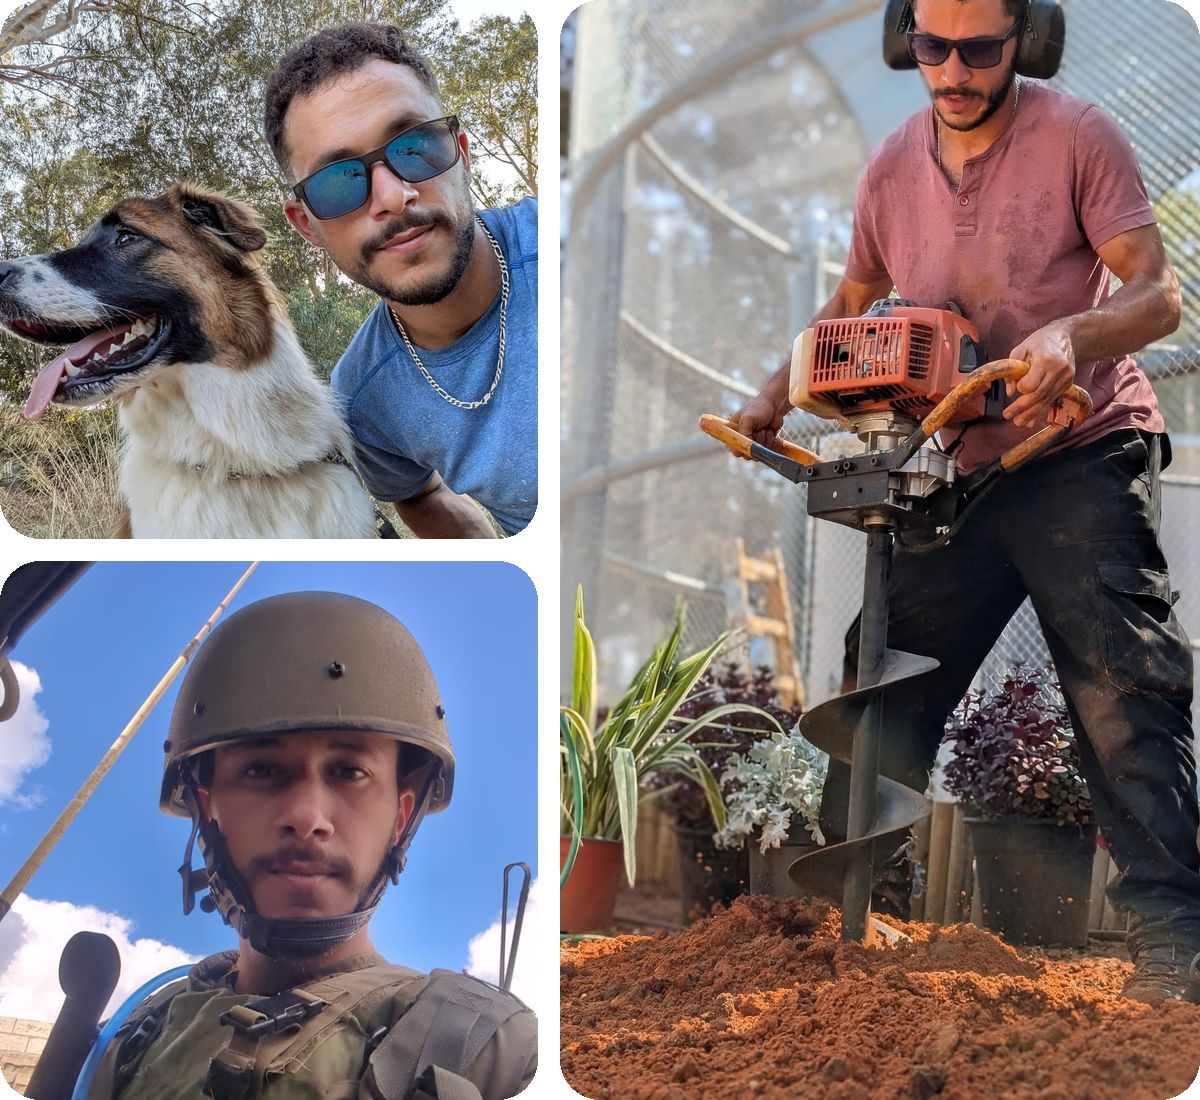
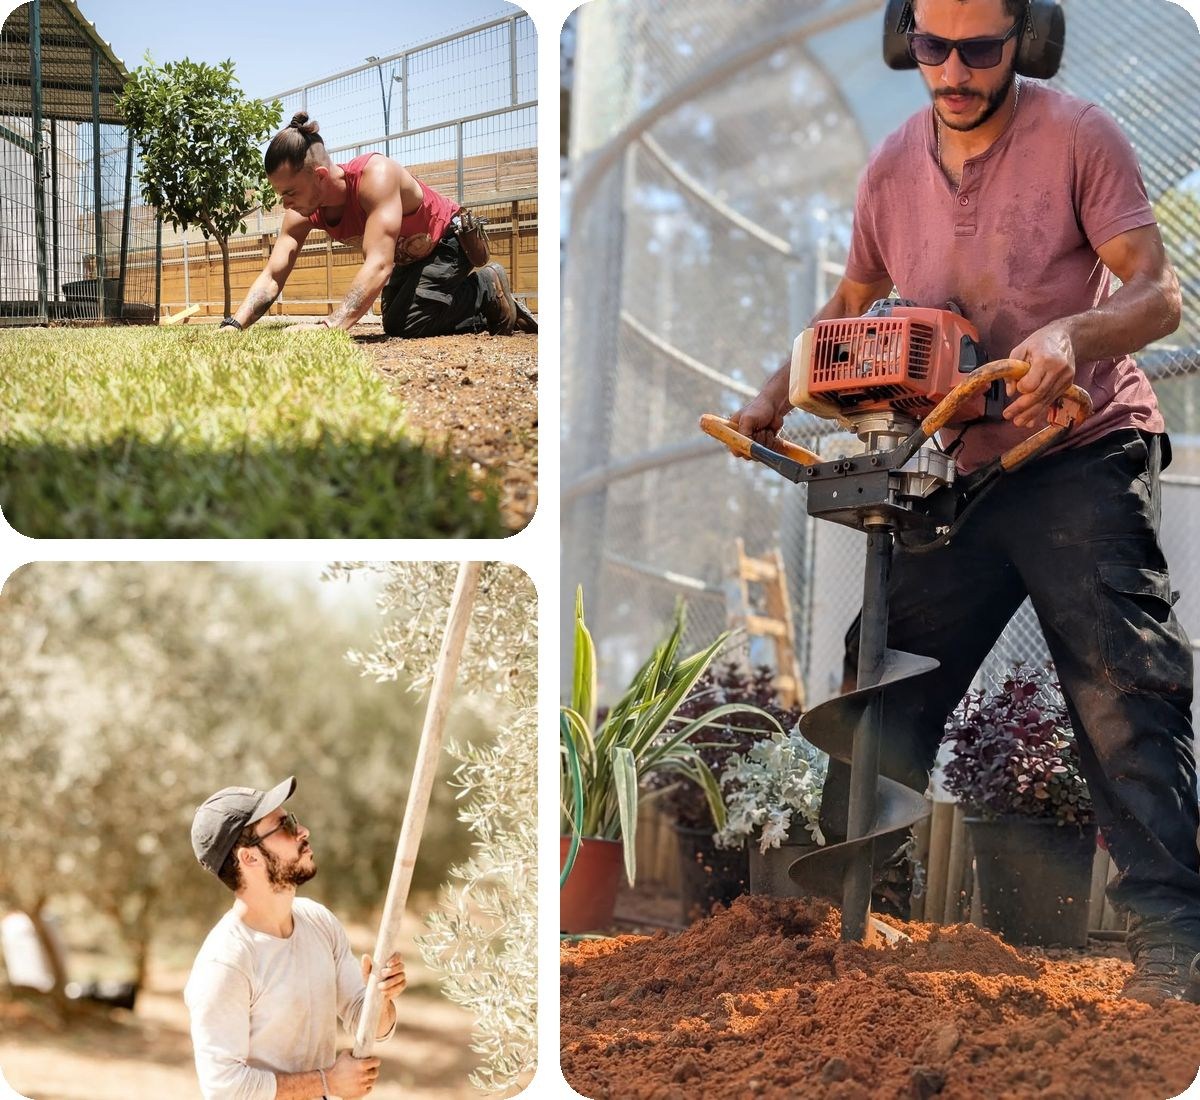
About section: new photo collage
Claude-Session: https://claude.ai/code/session_017QaXQ4DbcqRDuWji1SmiYn

diff --git a/index.html b/index.html
@@ -134,7 +134,7 @@ a{color:#1D5C38}a:hover{color:#123D24}
   <!-- About -->
   <section id="about" style="background: #E9F6E5; padding: 0 24px 72px">
     <div style="max-width: 1200px; margin: 0 auto; background: #FFFFFF; border-radius: 40px; padding: 48px; box-sizing: border-box; display: flex; flex-wrap: wrap; align-items: center; gap: 48px">
-      <img src="images/about-collage.jpg" width="1200" height="1100" loading="lazy" decoding="async" alt="נהוראי: בעבודה בגינה, עם הכלב ובמילואים" style="flex: 1 1 320px; min-width: 0; width: 100%; max-width: 540px; height: auto; display: block; margin: 0 auto">
+      <img src="images/about-collage.jpg" width="1200" height="1100" loading="lazy" decoding="async" alt="נהוראי בעבודה: פריסת מרבדי דשא, מסיק זיתים וקידוח במקדחה" style="flex: 1 1 320px; min-width: 0; width: 100%; max-width: 540px; height: auto; display: block; margin: 0 auto">
       <div style="flex: 1 1 480px; min-width: 0; display: flex; flex-direction: column; gap: 18px">
         <span style="align-self: flex-start; background: #CFEBC8; color: #1D5C38; font-size: 15px; font-weight: 700; padding: 6px 14px; border-radius: 999px">מי אנחנו</span>
         <h2 style="margin: 0; font-family: 'Varela Round', 'Rubik', sans-serif; font-weight: 400; font-size: 44px; line-height: 1.15">נעים להכיר: נהוראי</h2>
